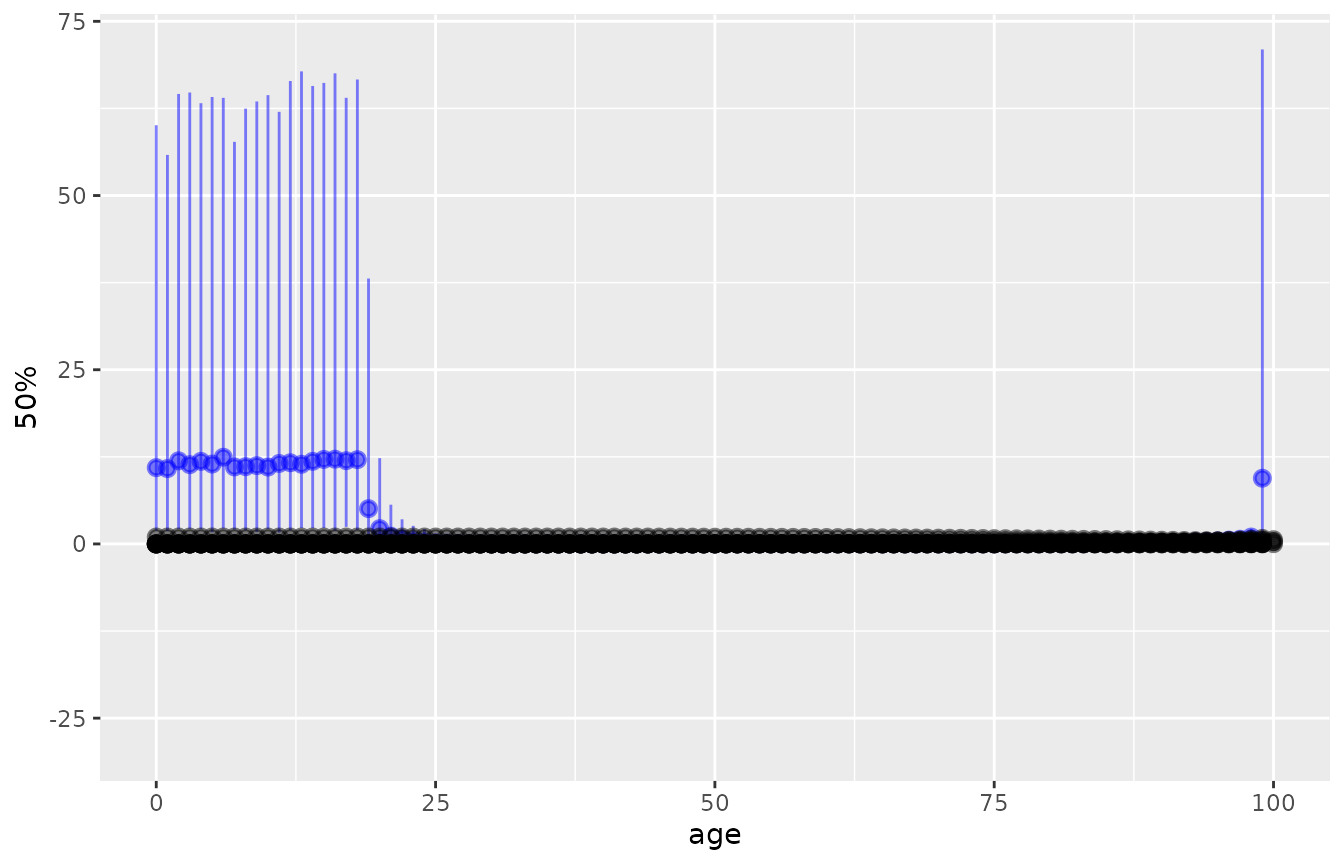
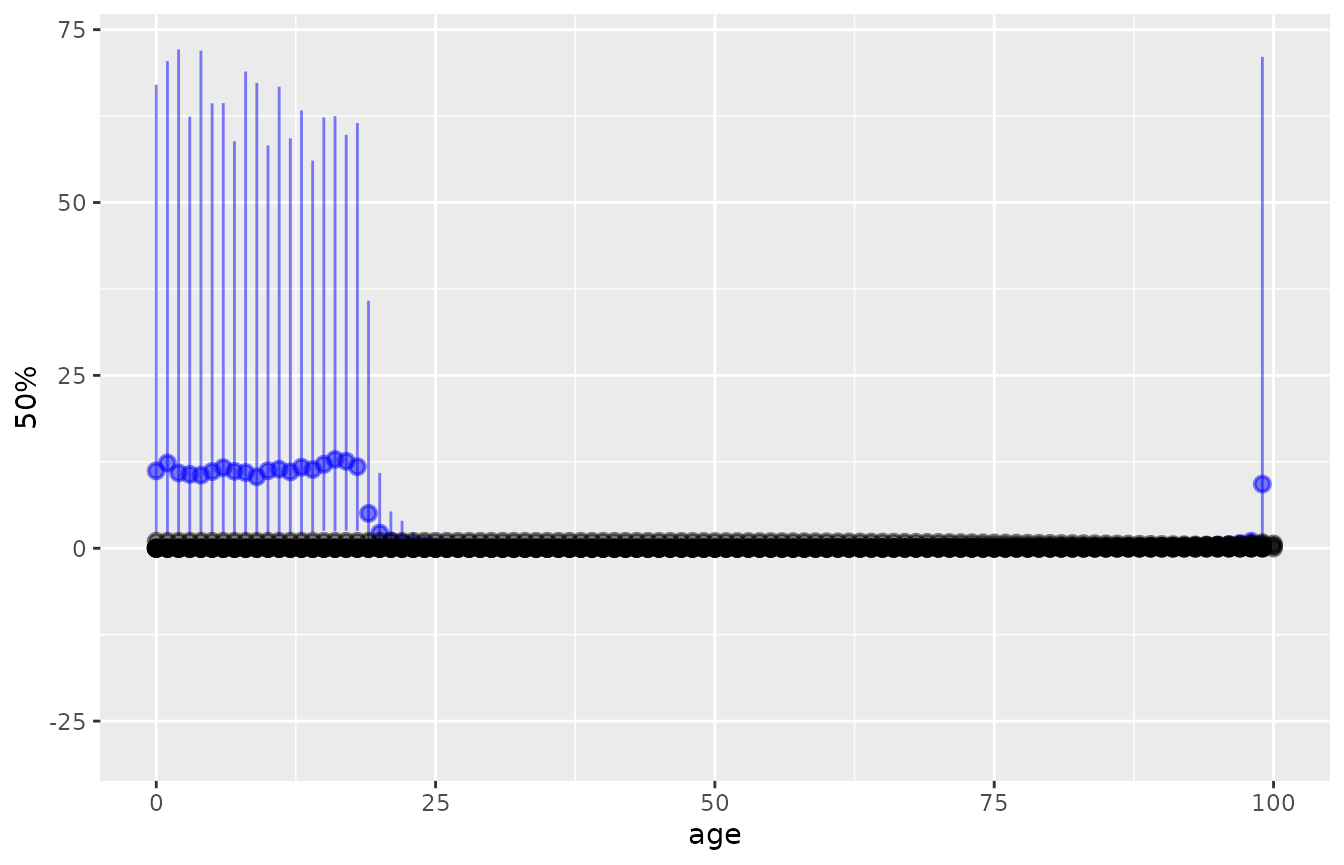
Built site for disbayes: 0.1@8c136f3

diff --git a/articles/disbayes.html b/articles/disbayes.html
@@ -339,12 +339,12 @@
   <span class="fu"><a href="https://dplyr.tidyverse.org/reference/filter.html">filter</a></span><span class="op">(</span><span class="va">var</span><span class="op">==</span><span class="st">"cf"</span>, <span class="fu"><a href="https://dplyr.tidyverse.org/reference/between.html">between</a></span><span class="op">(</span><span class="va">age</span>,<span class="fl">60</span>,<span class="fl">65</span><span class="op">)</span><span class="op">)</span> <span class="op">%&gt;%</span>
   <span class="fu"><a href="https://dplyr.tidyverse.org/reference/select.html">select</a></span><span class="op">(</span><span class="va">age</span>, <span class="va">`25%`</span>, <span class="va">`50%`</span>, <span class="va">`75%`</span><span class="op">)</span></code></pre></div>
 <pre><code>##   age        25%        50%        75%
-## 1  60 0.01636503 0.01757685 0.01894753
-## 2  61 0.01648179 0.01773545 0.01904587
-## 3  62 0.01665212 0.01788809 0.01915953
-## 4  63 0.01679037 0.01798298 0.01924406
-## 5  64 0.01692433 0.01816547 0.01935120
-## 6  65 0.01715271 0.01837847 0.01956834</code></pre>
+## 1  60 0.01631057 0.01746192 0.01875314
+## 2  61 0.01654877 0.01757953 0.01881338
+## 3  62 0.01668967 0.01771571 0.01893124
+## 4  63 0.01685085 0.01786752 0.01902847
+## 5  64 0.01704409 0.01802823 0.01914614
+## 6  65 0.01725275 0.01826768 0.01938539</code></pre>
 <p>The default <code>plot</code> method for objects returned by <code>disbayes</code> plots the posterior summaries for case fatality, allowing a quick check of the model results. Or do <code><a href="https://rdrr.io/r/graphics/plot.default.html">plot(..., variable="inc")</a></code> for incidence. The function returns a <code>ggplot2</code> object that can be modified with <code>ggplot2</code> functions, e.g. to add axis labels.</p>
 <div class="sourceCode" id="cb17"><pre class="downlit sourceCode r">
 <code class="sourceCode R"><span class="kw"><a href="https://rdrr.io/r/base/library.html">library</a></span><span class="op">(</span><span class="va"><a href="https://ggplot2.tidyverse.org">ggplot2</a></span><span class="op">)</span>
